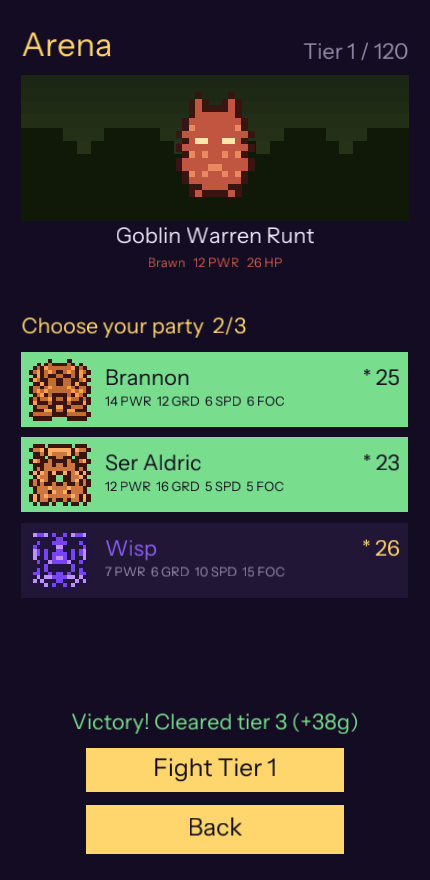
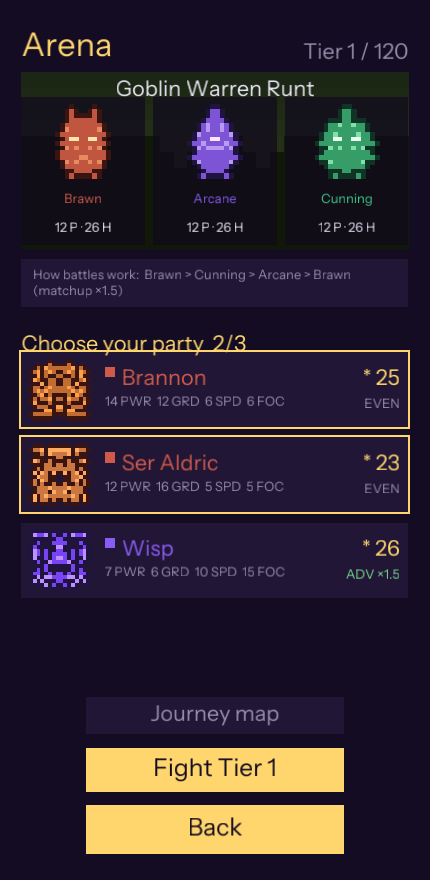
docs: Arena + event-play parity punch-list renders V1–V7 (brickmap 8373a20)
Refreshed 430×880 visual-refs after the CHANGES fixes (3-foe team, matchup
badges, primer/journey-map, clean pre-fight; calculator numpad, hint button,
outlined Skip, pixel backspace). visual-compare cooled both to 'examine'
(arena 10.2, event-play 8.32).

Claude-Session: https://claude.ai/code/session_01E9cJYJn3cUqfGgC4TZffwe

diff --git a/docs/agent/BUILDER-LOG-FX.md b/docs/agent/BUILDER-LOG-FX.md
@@ -6,6 +6,30 @@ Never edits an existing Halves file (wiring is Builder A's job). This log is min
 
 ---
 
+## BRICKMAP-GG1 FULL PORT — phase 5 PARITY: Arena + event-play CHANGES punch-list (V1–V7) ([B], GO)
+
+Addressed the Babysitter's first-cut CHANGES (REVIEW.md + PARITY-LEDGER V1–V7). `00-1/brickmap`
+`8373a20` (main + feature). **Re-rendered both visual-refs** (`arena-prefight-brickmap.png`,
+`event-play-brickmap.png`). `node tools/visual-compare.js` cooled **arena-prefight 15.3 → 10.2** and
+**event-play 12.4 → 8.32** mean ΔE (both `examine`, comfortably under the gross-18 gate).
+- **V1** Arena now fields the full **3-foe enemy team** (lead + 2 typed supports) as cards over the
+  backdrop — mini portrait + type + PWR/HP each — not a single foe.
+- **V2** Per-hero **matchup badge** vs the lead foe (`ADV ×1.5` / `WEAK` / `EVEN`) via the new
+  `combat::matchup_mult` — the type-triangle strategy signal.
+- **V3** "How battles work" **primer** box + a **Journey map** button.
+- **V4** Render the clean **pre-fight** state (no post-battle banner), button "Pick your party",
+  selected cards = a subtle **amber border** (not the heavy green fill).
+- **V5** **Calculator numpad** order (7/8/9 top), flipped in `bm-render::ui2d::keypad`.
+- **V6** "How to approach this" **hint button** above the numpad.
+- **V7** Pixel **backspace arrow** (the face lacks ⌫) + an **outlined Skip** bar (web's subtle action
+  bar). Keypad height trimmed to fit the hint button.
+- **D1/D2** (event title vs progress counter; purple event-tint vs near-black) left as the owner's
+  call per the parity ledger — not changed.
+- **Gates:** clippy clean (native + `aarch64-android`), full suite, GPU goldens on lavapipe
+  (`arena`/`drill-initial` re-blessed). *(Heroes visual pass is staged WIP, stashed — resumes next.)*
+
+---
+
 ## BRICKMAP-GG1 FULL PORT — phase 5 PARITY: the EVENT-PLAY SCREEN (today's event → gauntlet → tiers) ([B], GO)
 
 Second of the two screens — daily **event-play**, against `event-play-web.png` (which captures the